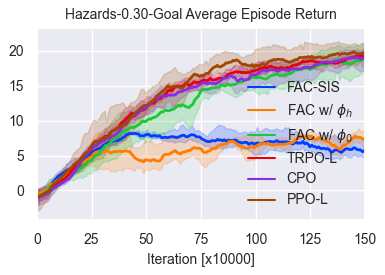
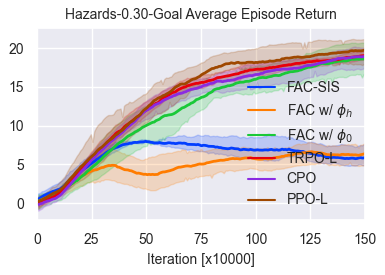
update plots

diff --git a/data_process/lineplot_aaai.py b/data_process/lineplot_aaai.py
@@ -16,17 +16,20 @@ paper = True
 sns.set(style="darkgrid")
 if paper: sns.set(font_scale=1.)
 fontsize = 10 if paper else 16
-SMOOTHFACTOR = 0.25
-SMOOTHFACTOR2 = 8
+SMOOTHFACTOR = 0.15
+SMOOTHFACTOR2 = 24
 DIV_LINE_WIDTH = 50
 txt_store_alg_list = ['CPO', 'PPO-L', 'TRPO-L','PPO-DA','PPO-H','FSAC-0']
-env_name_dict = dict(CustomGoal2='Hazards-0.15', CustomGoal3='Hazards-0.30-Goal',
+env_name_dict = dict(CustomGoal2='Hazards-0.15-Goal', CustomGoal3='Hazards-0.30-Goal',
                      CustomGoalPillar2='Pillars-0.15',CustomGoalPillar3='Pillar-0.30',
-                     CustomPush1='Hazards0.15-Push',CustomPush2='Hazards0.30-Push')
+                     CustomPush1='Hazards-0.15-Push',CustomPush2='Hazards-0.30-Push')
 tag_name_dict = dict(episode_return='Average Episode Return', episode_cost='Average Episode Costs',
                      cost_rate='Cost Rate', num_sampled_costs='Accumulative Costs',
-                     ep_phi_increase_times='Episode infeasible state num')
-y_lim_dict=dict(CustomPush2_episode_cost=[0, 5],
+                     ep_phi_increase_times='Episode Infeasible States Num')
+y_lim_dict=dict(CustomPush2_episode_cost=[-0.5, 5],
+                CustomPush1_episode_cost=[-0.1, 1],
+                CustomGoal3_episode_cost=[-0.3, 3],
+                CustomGoal2_episode_cost=[-0.1, 1],
                 CustomPush1_ep_phi_increase_times=[-1, 40],
                 CustomPush2_ep_phi_increase_times=[-1, 40])
 label_font_prop = dict(family='Microsoft YaHei', size=16)
@@ -34,17 +37,17 @@ legend_font_prop = dict(family='Microsoft YaHei')
 
 
 def help_func():
-    # tag2plot = ['episode_return','episode_cost'] #
-    tag2plot = ['ep_phi_increase_times']
-    # tag2plot = ['cost_rate']
-    # alg_list = ['FSAC-A','FSAC', 'FSAC-0', 'TRPO-L', 'CPO', 'PPO-L'] #
+    # tag2plot = ['episode_cost','episode_return'] #,'episode_cost', 'episode_return'
+    # tag2plot = ['ep_phi_increase_times']
+    tag2plot = ['cost_rate']
+    alg_list = ['FSAC-A','FSAC', 'FSAC-0', 'TRPO-L', 'CPO', 'PPO-L'] #
     # alg_list = ['PPO-DA','PPO-H','FSAC-0'] #
-    alg_list = ['FSAC-A','FSAC','FSAC-0'] #
+    # alg_list = ['FSAC-A','FSAC','FSAC-0'] # 'FSAC-A'
     # alg_list = ['PPO-DA', 'PPO-H', 'FSAC-0', 'TRPO-L', 'CPO', 'PPO-L']  #
     # lbs = ['SSAC', 'FSAC-A' ] # , 'TRPO-Lagrangian', 'CPO', 'PPO-Lagrangian'
     # lbs = [r'$\phi_h$', r'$\phi_\xi$']
-    # lbs = ['FAC-SIS', r'FAC w/ $\phi_h$', r'FAC w/ $\phi_0$', 'TRPO-L', 'CPO', 'PPO-L'] #
-    lbs = ['FAC-SIS', r'FAC w/ $\phi_h$', r'FAC w/ $\phi_0$',]
+    lbs = ['FAC-SIS', r'FAC w/ $\phi_h$', r'FAC w/ $\phi_0$', 'TRPO-L', 'CPO', 'PPO-L'] #
+    # lbs = ['FAC-SIS', r'FAC w/ $\phi_h$', r'FAC w/ $\phi_0$',]
     task = ['CustomGoal2'] # 'CustomGoal2','CustomPush1','CustomGoal3',
     # task = ['CustomPush1','CustomPush2','CustomGoal3',]  # 'CustomGoal2','CustomPush1','CustomGoal3',
     palette = "bright"
@@ -122,6 +125,7 @@ def plot_eval_results_of_all_alg_n_runs(dirs_dict_for_plot=None):
             plt.xticks(fontsize=fontsize)
             plt.xlim([0, 150])
             fig_handle = task +'_' + tag
+            print(fig_handle)
             if fig_handle in y_lim_dict.keys():
                 ax1.set_ylim(*y_lim_dict.get(fig_handle))
             plt.title(title, fontsize=fontsize)
@@ -171,8 +175,11 @@ def get_datasets(logdir, tag2plot, alg, condition=None, smooth=SMOOTHFACTOR2, nu
                     )
                     exp_data['ep_phi_increase_times'][i] = exp_data['ep_phi_increase_times'][i] if exp_data['iteration'][i] <= 100 \
                         else (150 - exp_data['iteration'][i]) / 50 * exp_data['ep_phi_increase_times'][i]
+                    exp_data['episode_cost'][i] = exp_data['episode_cost'][i] if \
+                    exp_data['iteration'][i] <= 120 \
+                        else 0
                 # exp_data['episode_return'] = exp_data['episode_return'] * 1.5
-                exp_data['cost_rate'] = exp_data['cost_rate'] * 0.3
+                exp_data['cost_rate'] = exp_data['cost_rate'] * 0.7
 
 
             datasets.append(exp_data)
